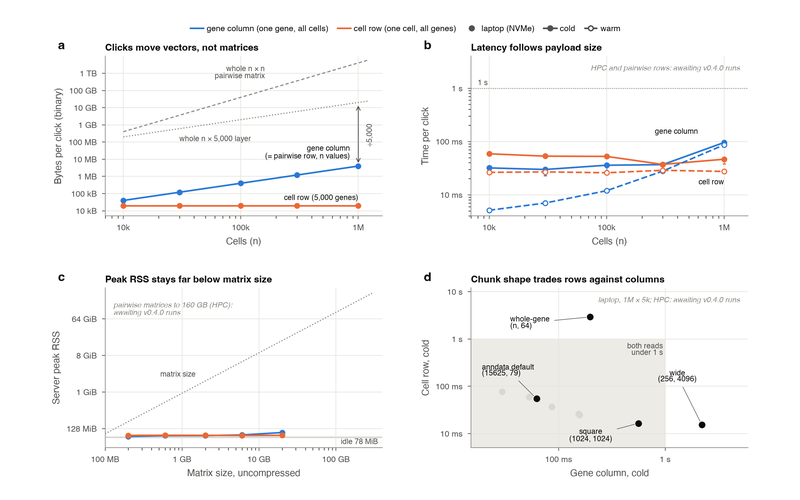
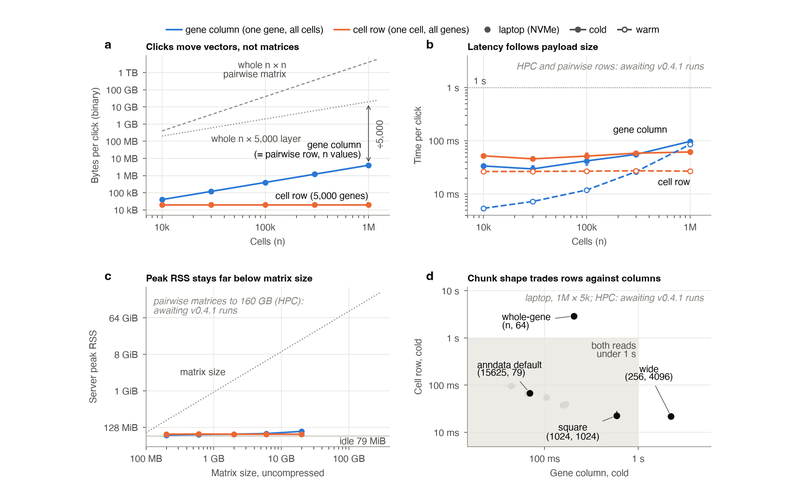
Docs: paper figure pages report the v0.4.1 state
performance.md and scale.md: version, tag, environment, medians and
screenshot times from the paper's v0.4.1 series; figure PNGs re-rendered
from the paper's v0.4.1 figures.

diff --git a/docs/paper/performance.md b/docs/paper/performance.md
@@ -1,13 +1,13 @@
 # Performance: what one click costs
 
 ```{figure} ../_static/figures/paper/performance.png
-:alt: Four panels: bytes per click against the number of cells, latency per click on a laptop, peak server memory against matrix size, and the chunk shape trade-off between cell rows and gene columns. The HPC and pairwise series are marked as awaiting v0.4.0 runs.
+:alt: Four panels: bytes per click against the number of cells, latency per click on a laptop, peak server memory against matrix size, and the chunk shape trade-off between cell rows and gene columns. The HPC and pairwise series are marked as awaiting v0.4.1 runs.
 :width: 100%
 
 *Interactions cost one vector, and memory stays flat*, a figure of the AnnZarro paper (Otto,
 Baasri and Setty, in preparation), made by `figures/fig6_performance.py` in the paper
 repository. The laptop series are final; the HPC and pairwise series are being re-measured on
-AnnZarro v0.4.0 and are marked "awaiting v0.4.0 runs".
+AnnZarro v0.4.1 and are marked "awaiting v0.4.1 runs".
 ```
 
 This figure is measured, not drawn in the app. Each panel answers one question about what a
@@ -24,24 +24,23 @@ browser, see {doc}`scale`.
 | c | peak resident memory of the server against the uncompressed size of the matrix read | the server's peak stays at 81 to 102 MiB while the layer read grows a hundredfold, from 0.2 to 20 GB; the idle server uses 78 MiB |
 | d | cold cell row against cold gene column, one point per chunk shape, 1 million × 5,000 | whole-gene chunks make one cell row decompress the whole layer (2.9 s); anndata's default chunks keep each read to a small part of the layer |
 
-Conditions: every number is AnnZarro v0.4.0 (release candidate `3bdeb09`, the tree of the
-v0.4.0 tag), with vectors sent in the binary float32 format the web client uses. Laptop: Apple
+Conditions: every number is AnnZarro v0.4.1 (tag `78c9da6`), with vectors sent in the binary float32 format the web client uses. Laptop: Apple
 M3 Max, 16 cores, 128 GB RAM, NVMe/APFS, macOS; synthetic n × 5,000 float32 stores; *cold* is a
 fresh server on a fresh APFS clone of the store, *warm* a new random index with the page cache
 warm. The HPC series (Xeon Gold 6254 nodes, data on an NFS scratch filer) and the rows of dense
-pairwise matrices, which were measured only on HPC nodes, are being re-measured on v0.4.0; the
+pairwise matrices, which were measured only on HPC nodes, are being re-measured on v0.4.1; the
 paper and this page give no HPC number until those runs land. The results are
-`benchmark/results/scale_v040.csv` and `sweep_v040.csv` in the paper repository.
+`benchmark/results/scale_v041.csv` and `sweep_v041.csv` in the paper repository.
 
-Medians from `scale_v040.csv`, cold / warm, in milliseconds (5 cold and 10 warm requests per
+Medians from `scale_v041.csv`, cold / warm, in milliseconds (5 cold and 10 warm requests per
 cell, each for a new random index):
 
 | Interaction | 10k cells | 100k cells | 1M cells |
 |---|---|---|---|
-| Gene column of a dense layer | 32 / 5 | 36 / 12 | 96 / 86 |
-| Cell row (5,000 genes) | 59 / 26 | 52 / 26 | 46 / 27 |
-| obsm column | 24 / 2 | 22 / 2 | 21 / 6 |
-| kNN graph row (sparse obsp) | 23 / 6 | 28 / 7 | 27 / 11 |
+| Gene column of a dense layer | 34 / 5 | 42 / 12 | 97 / 85 |
+| Cell row (5,000 genes) | 52 / 26 | 51 / 27 | 61 / 27 |
+| obsm column | 23 / 2 | 27 / 2 | 33 / 6 |
+| kNN graph row (sparse obsp) | 28 / 6 | 30 / 7 | 36 / 11 |
 
 ## Rerunning the benchmark
 
@@ -55,14 +54,14 @@ for each request. The measurement conditions and CSV columns are documented in
 |---|---|
 | `generate_data.py` | writes the stores to `data/bench/` and records them in `data/bench/manifest.json` |
 | `run_benchmark.py` | starts servers, issues HTTP requests, writes `results/<experiment><suffix>.csv` |
-| `queue_perf.sh` | the v0.4.0 laptop run: builds a release, then scale, sparse and chunk-sweep measurements, one store at a time |
-| `../figures/fig6_performance.py` | assembles the paper figure from `results/scale_v040.csv` and `results/sweep_v040.csv` |
+| `queue_perf.sh` | the v0.4.1 laptop run: builds a release, then scale, sparse and chunk-sweep measurements, one store at a time |
+| `../figures/fig6_performance.py` | assembles the paper figure from `results/scale_v041.csv` and `results/sweep_v041.csv` |
 
 ### Environment
 
-The v0.4.0 run served from AnnZarro 0.4.0 under Python 3.13.9 with zarr 3.4.0, numcodecs 0.17.0,
+The v0.4.1 run served from AnnZarro 0.4.1 under Python 3.13.9 with zarr 3.4.0, numcodecs 0.17.0,
 numpy 2.5.3 and Flask 3.1.3; the harness itself ran under Python 3.11
-(`results/scale_v040_environment.json` lists every version and the AnnZarro commit).
+(`results/scale_v041_environment.json` lists every version and the AnnZarro commit).
 `run_benchmark.py --server-python` names the interpreter of the AnnZarro build to measure, and
 `--suffix` names the result files, so one harness measures any release:
 
@@ -72,8 +71,8 @@ PY=../.venv/bin/python
 $PY generate_data.py check                       # prints anndata's default chunks for 100k x 5k
 $PY generate_data.py scale --sizes 10000 30000 100000
 $PY run_benchmark.py scale --sizes 10000 30000 100000 \
-    --server-python /path/to/annzarro-0.4.0/bin/python --suffix _mine
-$PY run_benchmark.py env --server-python /path/to/annzarro-0.4.0/bin/python --suffix _mine
+    --server-python /path/to/annzarro-0.4.1/bin/python --suffix _mine
+$PY run_benchmark.py env --server-python /path/to/annzarro-0.4.1/bin/python --suffix _mine
 ```
 
 The default wire format is binary (`--wire binary`), as the web client sends. The cold condition
@@ -99,7 +98,7 @@ It reads the laptop CSVs from `benchmark/results/` and writes
 Open the browser's developer tools on the **Network** tab, filter for `api/v1/data`, and
 click a gene or a cell: each panel that follows the focus issues one request, whose **Size**
 and **Time** are the cost of that click. In headless Chromium on `bm_aging.zarr`, laptop,
-localhost, AnnZarro v0.4.0 (view `docs/_tools/views/click-cost.json`, measured by
+localhost (view `docs/_tools/views/click-cost.json`, measured by
 `docs/_tools/shoot_figs79.py` over three runs):
 
 | Click | Request | Body | Duration |

diff --git a/docs/paper/scale.md b/docs/paper/scale.md
@@ -12,7 +12,7 @@ of app screenshots; e to g are browser measurements.
 All 95,624,334 cells of Tahoe-100M {cite:p}`zhang2025tahoe`, on a UMAP fitted to 999,073
 reference cells and extended to every other cell by nearest-neighbour placement, in headless
 Chromium on an Apple M3 Max laptop (128 GiB RAM). **a**, Every cell coloured by cell line in
-large-plot mode, point size 1 and opacity 0.2, drawn 6.4 s after the page was opened. **b**, The
+large-plot mode, point size 1 and opacity 0.2, drawn 6.8 s after the page was opened. **b**, The
 same cells coloured by FN1 counts, the colour scale capped at 30, the 99th percentile over all
 cells. **c**, A zoom into one cell line's island, every cell at point size 5 and opacity 1: each dot
 is one cell. **d**, The default subset, part 1 of 957 (100,000 cells), in the regular plot with
@@ -48,7 +48,7 @@ every cell is bounded by the tab's JavaScript heap. The steps behind each view a
   times depend on the disk, the browser and the GPU.
 - **Times are the paper's.** The views were not timed for this page; on a 95.6-million-cell store
   expect several seconds per every-cell view. The paper's benchmark drew every cell in 5 to 6 s;
-  its screenshots of panels a, b and c were drawn 6.4, 7.3 and 6.3 s after the page was opened.
+  its screenshots of panels a, b and c were drawn 6.8, 7.1 and 6.5 s after the page was opened.
 
 (paper-scale-views)=
 ## Views
@@ -104,7 +104,7 @@ Loading one restores the dataset, the subset, the focus and the layout, like the
 ({doc}`../user-guide/panel-sets`).
 
 The views are written by `docs/_tools/start_links.py scale` from the view files of the paper's
-v0.4.0 screenshots (`figures/scale/*.view.json` in the paper's companion repository,
+v0.4.1 screenshots (`figures/scale/*.view.json` in the paper's companion repository,
 {ref}`paper-companion`). The script adds what
 the screenshot script set through the app: the subset, the part, and the zoom and point size of
 panel c.
